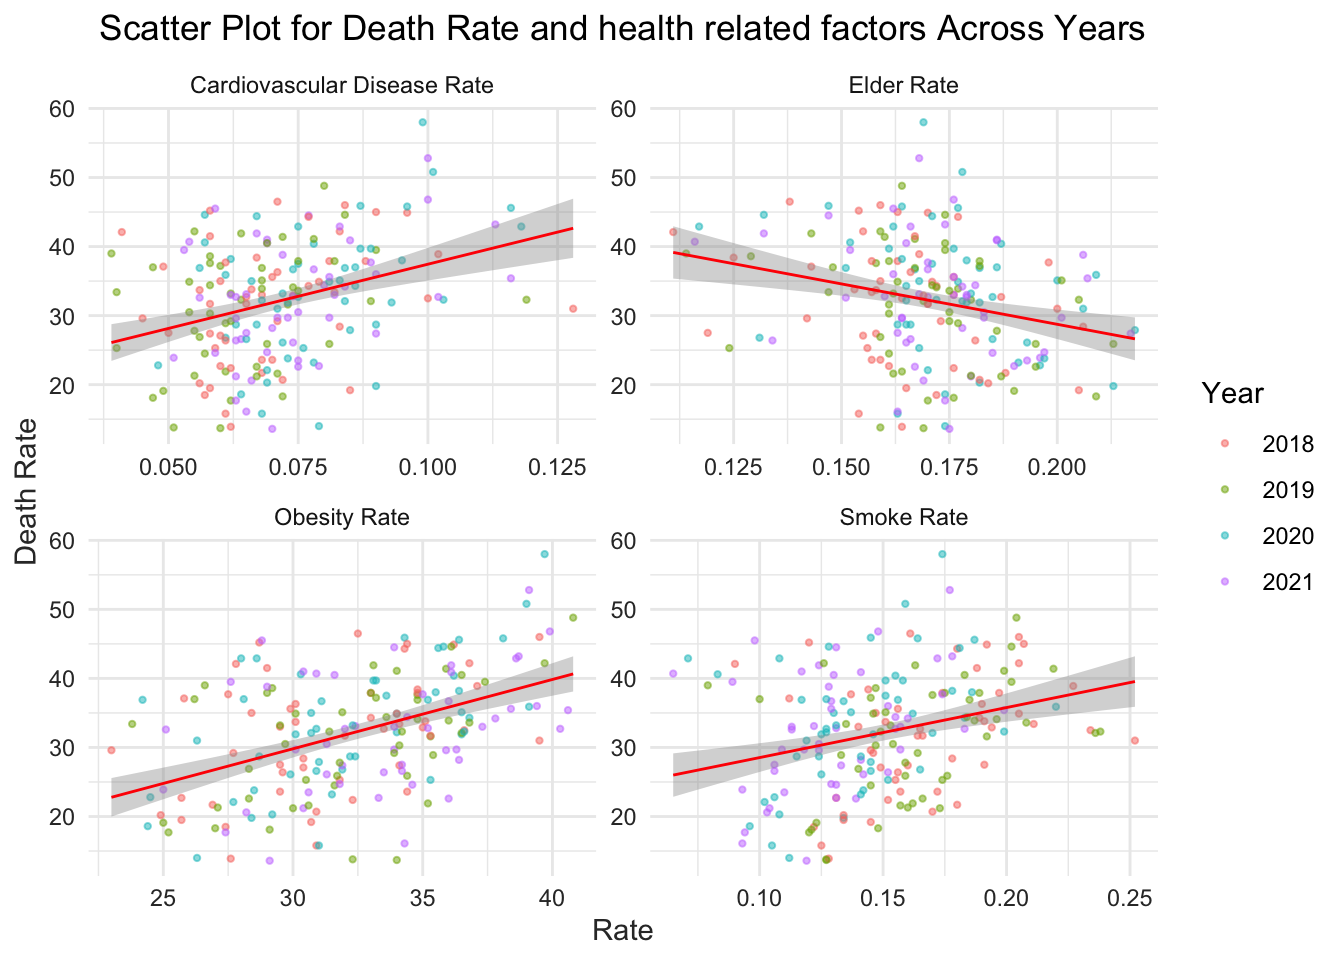
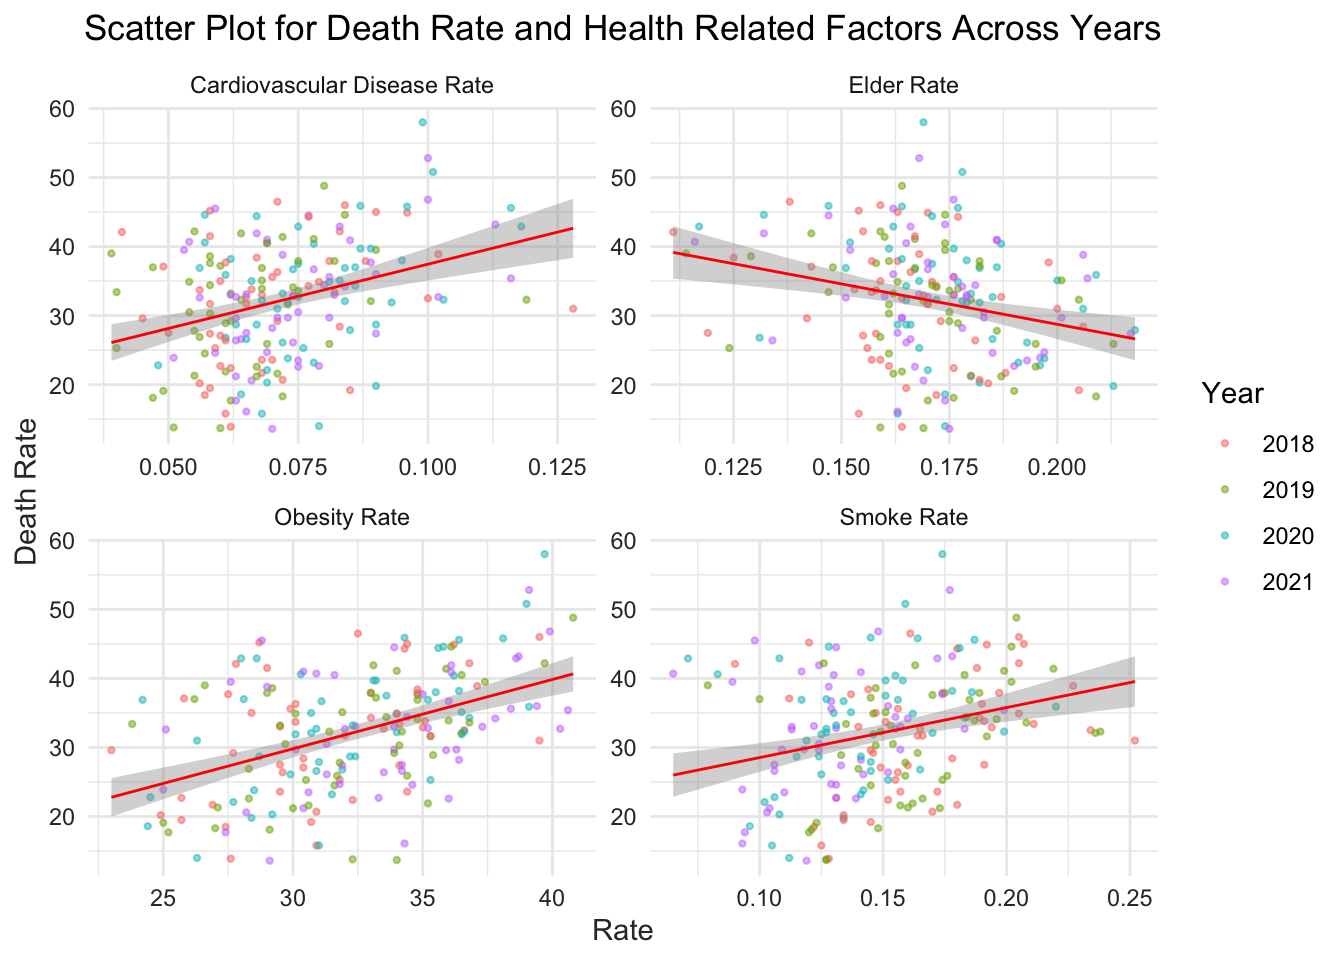
fix the problem

Changed region(s): [[0.0625, 0.0, 0.875, 0.0625]]

diff --git a/EDA.html b/EDA.html
@@ -752,8 +752,8 @@ plot_ly(missing_data, x = ~Variable, y = ~MissingValues, type = &quot;bar&quot;,
   layout(title = &quot;Missing Data Visualization&quot;,
          xaxis = list(title = &quot;Variables&quot;),
          yaxis = list(title = &quot;Number of Missing Values&quot;))</code></pre>
-<div class="plotly html-widget html-fill-item" id="htmlwidget-81a89aa6cd6536663f51" style="width:672px;height:480px;"></div>
-<script type="application/json" data-for="htmlwidget-81a89aa6cd6536663f51">{"x":{"visdat":{"fbba22b70a29":["function () ","plotlyVisDat"]},"cur_data":"fbba22b70a29","attrs":{"fbba22b70a29":{"x":{},"y":{},"marker":{"color":"rgba(55, 128, 191, 0.7)","line":{"color":"rgba(55, 128, 191, 0.7)","width":2}},"alpha_stroke":1,"sizes":[10,100],"spans":[1,20],"type":"bar"}},"layout":{"margin":{"b":40,"l":60,"t":25,"r":10},"title":"Missing Data Visualization","xaxis":{"domain":[0,1],"automargin":true,"title":"Variables","type":"category","categoryorder":"array","categoryarray":["death_rate","cardio_rate","diabetes_rate","smoke_rate","elder_rate","obesity_rate","edu_level","employment","gdp","hc_exp","income","pce","rpp","state","year"]},"yaxis":{"domain":[0,1],"automargin":true,"title":"Number of Missing Values"},"hovermode":"closest","showlegend":false},"source":"A","config":{"modeBarButtonsToAdd":["hoverclosest","hovercompare"],"showSendToCloud":false},"data":[{"x":["state","year","death_rate","gdp","pce","rpp","employment","hc_exp","income","edu_level","diabetes_rate","cardio_rate","smoke_rate","elder_rate","obesity_rate"],"y":[0,0,4,0,0,0,0,0,0,0,2,2,2,1,1],"marker":{"color":"rgba(55, 128, 191, 0.7)","line":{"color":"rgba(55, 128, 191, 0.7)","width":2}},"type":"bar","error_y":{"color":"rgba(31,119,180,1)"},"error_x":{"color":"rgba(31,119,180,1)"},"xaxis":"x","yaxis":"y","frame":null}],"highlight":{"on":"plotly_click","persistent":false,"dynamic":false,"selectize":false,"opacityDim":0.20000000000000001,"selected":{"opacity":1},"debounce":0},"shinyEvents":["plotly_hover","plotly_click","plotly_selected","plotly_relayout","plotly_brushed","plotly_brushing","plotly_clickannotation","plotly_doubleclick","plotly_deselect","plotly_afterplot","plotly_sunburstclick"],"base_url":"https://plot.ly"},"evals":[],"jsHooks":[]}</script>
+<div class="plotly html-widget html-fill-item" id="htmlwidget-ceae53ed4c53ce261a92" style="width:672px;height:480px;"></div>
+<script type="application/json" data-for="htmlwidget-ceae53ed4c53ce261a92">{"x":{"visdat":{"11a495e56f53b":["function () ","plotlyVisDat"]},"cur_data":"11a495e56f53b","attrs":{"11a495e56f53b":{"x":{},"y":{},"marker":{"color":"rgba(55, 128, 191, 0.7)","line":{"color":"rgba(55, 128, 191, 0.7)","width":2}},"alpha_stroke":1,"sizes":[10,100],"spans":[1,20],"type":"bar"}},"layout":{"margin":{"b":40,"l":60,"t":25,"r":10},"title":"Missing Data Visualization","xaxis":{"domain":[0,1],"automargin":true,"title":"Variables","type":"category","categoryorder":"array","categoryarray":["death_rate","cardio_rate","diabetes_rate","smoke_rate","elder_rate","obesity_rate","edu_level","employment","gdp","hc_exp","income","pce","rpp","state","year"]},"yaxis":{"domain":[0,1],"automargin":true,"title":"Number of Missing Values"},"hovermode":"closest","showlegend":false},"source":"A","config":{"modeBarButtonsToAdd":["hoverclosest","hovercompare"],"showSendToCloud":false},"data":[{"x":["state","year","death_rate","gdp","pce","rpp","employment","hc_exp","income","edu_level","diabetes_rate","cardio_rate","smoke_rate","elder_rate","obesity_rate"],"y":[0,0,4,0,0,0,0,0,0,0,2,2,2,1,1],"marker":{"color":"rgba(55, 128, 191, 0.7)","line":{"color":"rgba(55, 128, 191, 0.7)","width":2}},"type":"bar","error_y":{"color":"rgba(31,119,180,1)"},"error_x":{"color":"rgba(31,119,180,1)"},"xaxis":"x","yaxis":"y","frame":null}],"highlight":{"on":"plotly_click","persistent":false,"dynamic":false,"selectize":false,"opacityDim":0.20000000000000001,"selected":{"opacity":1},"debounce":0},"shinyEvents":["plotly_hover","plotly_click","plotly_selected","plotly_relayout","plotly_brushed","plotly_brushing","plotly_clickannotation","plotly_doubleclick","plotly_deselect","plotly_afterplot","plotly_sunburstclick"],"base_url":"https://plot.ly"},"evals":[],"jsHooks":[]}</script>
 </div>
 <div id="part-ii-missing-value-analysis" class="section level1">
 <h1>Part II Missing Value Analysis</h1>
@@ -773,17 +773,12 @@ imputed, we simply delete rows containing missing values.</p>
 # Create a histogram
 plot_ly(data, x = ~death_rate, type = &quot;histogram&quot;, nbinsx = 30, marker = list(color = &quot;rgba(55, 128, 191, 0.7)&quot;, line = list(color = &quot;rgba(55, 128, 191, 0.7)&quot;, width = 2))) %&gt;%
   layout(title = &quot;Histogram of Death Rate&quot;)</code></pre>
-<div class="plotly html-widget html-fill-item" id="htmlwidget-e8ee38375a149442f1e8" style="width:672px;height:480px;"></div>
-<script type="application/json" data-for="htmlwidget-e8ee38375a149442f1e8">{"x":{"visdat":{"fbba258540f1":["function () ","plotlyVisDat"]},"cur_data":"fbba258540f1","attrs":{"fbba258540f1":{"x":{},"nbinsx":30,"marker":{"color":"rgba(55, 128, 191, 0.7)","line":{"color":"rgba(55, 128, 191, 0.7)","width":2}},"alpha_stroke":1,"sizes":[10,100],"spans":[1,20],"type":"histogram"}},"layout":{"margin":{"b":40,"l":60,"t":25,"r":10},"title":"Histogram of Death Rate","xaxis":{"domain":[0,1],"automargin":true,"title":"death_rate"},"yaxis":{"domain":[0,1],"automargin":true},"hovermode":"closest","showlegend":false},"source":"A","config":{"modeBarButtonsToAdd":["hoverclosest","hovercompare"],"showSendToCloud":false},"data":[{"x":[44.899999999999999,44.600000000000001,50.799999999999997,46.799999999999997,27.5,25.300000000000001,26.800000000000001,26.399999999999999,33,32.299999999999997,32.700000000000003,30.5,38.899999999999999,39.5,45.600000000000001,43.200000000000003,37.100000000000001,37,40.600000000000001,39.5,29.600000000000001,33.399999999999999,36.899999999999999,32.600000000000001,18.5,18.100000000000001,20.300000000000001,21.199999999999999,32.700000000000003,25.899999999999999,35.100000000000001,29.699999999999999,19.199999999999999,18.300000000000001,19.800000000000001,19.600000000000001,46.5,41.899999999999999,45.899999999999999,44.5,20.199999999999999,19.100000000000001,22.800000000000001,23.899999999999999,35,33.200000000000003,36.700000000000003,40.5,25.300000000000001,24.5,28.699999999999999,26.600000000000001,33.399999999999999,31.600000000000001,34.299999999999997,29.699999999999999,31.699999999999999,29.199999999999999,31.899999999999999,28.199999999999999,23.600000000000001,21.899999999999999,25.300000000000001,22.600000000000001,32.5,32.100000000000001,32.299999999999997,32.700000000000003,42.200000000000003,41.399999999999999,45.799999999999997,42.899999999999999,28.399999999999999,25.899999999999999,27.899999999999999,27.399999999999999,15.800000000000001,13.800000000000001,15.800000000000001,16.100000000000001,19.5,17.699999999999999,18.600000000000001,17.699999999999999,34.299999999999997,33.899999999999999,36.899999999999999,34.399999999999999,33.700000000000003,34.899999999999999,35,33.100000000000001,46,48.799999999999997,58,52.799999999999997,32.899999999999999,34.100000000000001,34.899999999999999,33,21.699999999999999,22.600000000000001,23.800000000000001,24.699999999999999,27.399999999999999,30.300000000000001,32.200000000000003,29.600000000000001,23.600000000000001,21.600000000000001,28.699999999999999,26.100000000000001,26.399999999999999,27.800000000000001,26.100000000000001,23.5,22.699999999999999,21.699999999999999,22.100000000000001,20.600000000000001,22.399999999999999,21.300000000000001,26.600000000000001,24.600000000000001,13.9,13.699999999999999,14,13.6,37.899999999999999,36.899999999999999,37.5,36.700000000000003,33.799999999999997,37.600000000000001,39.700000000000003,32.799999999999997,34.899999999999999,33.600000000000001,38,34.200000000000003,37.899999999999999,37.899999999999999,38.200000000000003,36,35.600000000000001,37.200000000000003,37,41,20.699999999999999,21.199999999999999,23.199999999999999,22.699999999999999,29.199999999999999,28.899999999999999,31.899999999999999,29.699999999999999,44.299999999999997,37.899999999999999,40.399999999999999,40.899999999999999,36.299999999999997,40.5,39.700000000000003,35.600000000000001,45,41.100000000000001,44.399999999999999,37.700000000000003,38.399999999999999,38.600000000000001,44.600000000000001,41.899999999999999,42.100000000000001,39,42.899999999999999,40.700000000000003,37.700000000000003,35.100000000000001,31,38.799999999999997,27.100000000000001,26.899999999999999,28.699999999999999,27.5,45.200000000000003,42.200000000000003,42.899999999999999,45.5,31,32.299999999999997,35.899999999999999,35.399999999999999,31.699999999999999,30.5,33.200000000000003,33,41.5,34.399999999999999,32.100000000000001,32.700000000000003],"nbinsx":30,"marker":{"color":"rgba(55, 128, 191, 0.7)","line":{"color":"rgba(55, 128, 191, 0.7)","width":2}},"type":"histogram","error_y":{"color":"rgba(31,119,180,1)"},"error_x":{"color":"rgba(31,119,180,1)"},"xaxis":"x","yaxis":"y","frame":null}],"highlight":{"on":"plotly_click","persistent":false,"dynamic":false,"selectize":false,"opacityDim":0.20000000000000001,"selected":{"opacity":1},"debounce":0},"shinyEvents":["plotly_hover","plotly_click","plotly_selected","plotly_relayout","plotly_brushed","plotly_brushing","plotly_clickannotation","plotly_doubleclick","plotly_deselect","plotly_afterplot","plotly_sunburstclick"],"base_url":"https://plot.ly"},"evals":[],"jsHooks":[]}</script>
+<div class="plotly html-widget html-fill-item" id="htmlwidget-1cf622088467e3edcd92" style="width:672px;height:480px;"></div>
+<script type="application/json" data-for="htmlwidget-1cf622088467e3edcd92">{"x":{"visdat":{"11a4918ef1aa7":["function () ","plotlyVisDat"]},"cur_data":"11a4918ef1aa7","attrs":{"11a4918ef1aa7":{"x":{},"nbinsx":30,"marker":{"color":"rgba(55, 128, 191, 0.7)","line":{"color":"rgba(55, 128, 191, 0.7)","width":2}},"alpha_stroke":1,"sizes":[10,100],"spans":[1,20],"type":"histogram"}},"layout":{"margin":{"b":40,"l":60,"t":25,"r":10},"title":"Histogram of Death Rate","xaxis":{"domain":[0,1],"automargin":true,"title":"death_rate"},"yaxis":{"domain":[0,1],"automargin":true},"hovermode":"closest","showlegend":false},"source":"A","config":{"modeBarButtonsToAdd":["hoverclosest","hovercompare"],"showSendToCloud":false},"data":[{"x":[44.899999999999999,44.600000000000001,50.799999999999997,46.799999999999997,27.5,25.300000000000001,26.800000000000001,26.399999999999999,33,32.299999999999997,32.700000000000003,30.5,38.899999999999999,39.5,45.600000000000001,43.200000000000003,37.100000000000001,37,40.600000000000001,39.5,29.600000000000001,33.399999999999999,36.899999999999999,32.600000000000001,18.5,18.100000000000001,20.300000000000001,21.199999999999999,32.700000000000003,25.899999999999999,35.100000000000001,29.699999999999999,19.199999999999999,18.300000000000001,19.800000000000001,19.600000000000001,46.5,41.899999999999999,45.899999999999999,44.5,20.199999999999999,19.100000000000001,22.800000000000001,23.899999999999999,35,33.200000000000003,36.700000000000003,40.5,25.300000000000001,24.5,28.699999999999999,26.600000000000001,33.399999999999999,31.600000000000001,34.299999999999997,29.699999999999999,31.699999999999999,29.199999999999999,31.899999999999999,28.199999999999999,23.600000000000001,21.899999999999999,25.300000000000001,22.600000000000001,32.5,32.100000000000001,32.299999999999997,32.700000000000003,42.200000000000003,41.399999999999999,45.799999999999997,42.899999999999999,28.399999999999999,25.899999999999999,27.899999999999999,27.399999999999999,15.800000000000001,13.800000000000001,15.800000000000001,16.100000000000001,19.5,17.699999999999999,18.600000000000001,17.699999999999999,34.299999999999997,33.899999999999999,36.899999999999999,34.399999999999999,33.700000000000003,34.899999999999999,35,33.100000000000001,46,48.799999999999997,58,52.799999999999997,32.899999999999999,34.100000000000001,34.899999999999999,33,21.699999999999999,22.600000000000001,23.800000000000001,24.699999999999999,27.399999999999999,30.300000000000001,32.200000000000003,29.600000000000001,23.600000000000001,21.600000000000001,28.699999999999999,26.100000000000001,26.399999999999999,27.800000000000001,26.100000000000001,23.5,22.699999999999999,21.699999999999999,22.100000000000001,20.600000000000001,22.399999999999999,21.300000000000001,26.600000000000001,24.600000000000001,13.9,13.699999999999999,14,13.6,37.899999999999999,36.899999999999999,37.5,36.700000000000003,33.799999999999997,37.600000000000001,39.700000000000003,32.799999999999997,34.899999999999999,33.600000000000001,38,34.200000000000003,37.899999999999999,37.899999999999999,38.200000000000003,36,35.600000000000001,37.200000000000003,37,41,20.699999999999999,21.199999999999999,23.199999999999999,22.699999999999999,29.199999999999999,28.899999999999999,31.899999999999999,29.699999999999999,44.299999999999997,37.899999999999999,40.399999999999999,40.899999999999999,36.299999999999997,40.5,39.700000000000003,35.600000000000001,45,41.100000000000001,44.399999999999999,37.700000000000003,38.399999999999999,38.600000000000001,44.600000000000001,41.899999999999999,42.100000000000001,39,42.899999999999999,40.700000000000003,37.700000000000003,35.100000000000001,31,38.799999999999997,27.100000000000001,26.899999999999999,28.699999999999999,27.5,45.200000000000003,42.200000000000003,42.899999999999999,45.5,31,32.299999999999997,35.899999999999999,35.399999999999999,31.699999999999999,30.5,33.200000000000003,33,41.5,34.399999999999999,32.100000000000001,32.700000000000003],"nbinsx":30,"marker":{"color":"rgba(55, 128, 191, 0.7)","line":{"color":"rgba(55, 128, 191, 0.7)","width":2}},"type":"histogram","error_y":{"color":"rgba(31,119,180,1)"},"error_x":{"color":"rgba(31,119,180,1)"},"xaxis":"x","yaxis":"y","frame":null}],"highlight":{"on":"plotly_click","persistent":false,"dynamic":false,"selectize":false,"opacityDim":0.20000000000000001,"selected":{"opacity":1},"debounce":0},"shinyEvents":["plotly_hover","plotly_click","plotly_selected","plotly_relayout","plotly_brushed","plotly_brushing","plotly_clickannotation","plotly_doubleclick","plotly_deselect","plotly_afterplot","plotly_sunburstclick"],"base_url":"https://plot.ly"},"evals":[],"jsHooks":[]}</script>
 <p>Since our goal is to create a model to predict the death rate, we
 separately examine the distribution of predictor variables. As shown in
-the above chart, the distribution of death rate exhibits a slight right
-skew, with most values concentrated in lower death rate ranges. However,
-this mild skewness does not necessarily imply a departure from the
-normality assumption, so we do not perform any transformations on it for
-now.</p>
-<p>！！！【memo,下次meeting】Distribution above is symmetric (or
-slightly left skewed), not right skewed</p>
+the above chart, the distribution of death rate is almost symmetric,
+thus we do not perform any transformations on it for now.</p>
 <pre class="r"><code>test = data |&gt;
   drop_na(death_rate)
 
@@ -866,7 +861,7 @@ potential association.</p>
     axis.title = element_text(color = &quot;grey20&quot;)
   ) +
   labs(
-    title = &quot;Scatter Plot for Death Rate and health related factors Across Years&quot;,
+    title = &quot;Scatter Plot for Death Rate and Health Related Factors Across Years&quot;,
     y = &quot;Death Rate&quot;,
     color = &quot;Year&quot;
   ) +
@@ -903,7 +898,7 @@ lower rate of deaths attributed to Alzheimer’s disease</p>
     axis.title = element_text(color = &quot;grey20&quot;)
   ) +
   labs(
-    title = &quot;Scatter Plot for Death Rate and health related factors Across Years&quot;,
+    title = &quot;Scatter Plot for Death Rate and Social Related Factors Across Years&quot;,
     y = &quot;Death Rate&quot;,
     color = &quot;Year&quot;
   ) +
@@ -943,7 +938,7 @@ suggests that better education may contribute to improved health
 outcomes, potentially due to increased health awareness, better access
 to healthcare resources, or healthier lifestyle choices typically
 associated with higher education levels.</p>
-<p>【However, it’s important to consider that Alzheimer’s disease
+<p>However, it’s important to consider that Alzheimer’s disease
 predominantly affects older individuals, and there may be a temporal
 discrepancy between the current education levels and those of the older
 population primarily impacted by this disease. This time-related
@@ -952,7 +947,7 @@ protective factor, the actual impact on Alzheimer’s mortality might be
 influenced by historical changes in education over the decades.
 Therefore, when interpreting these results, we should be cautious about
 directly correlating current educational standards with Alzheimer’s
-outcomes in an aging population.】</p>
+outcomes in an aging population.</p>
 </div>
 <div id="appendix" class="section level1">
 <h1>Appendix</h1>
